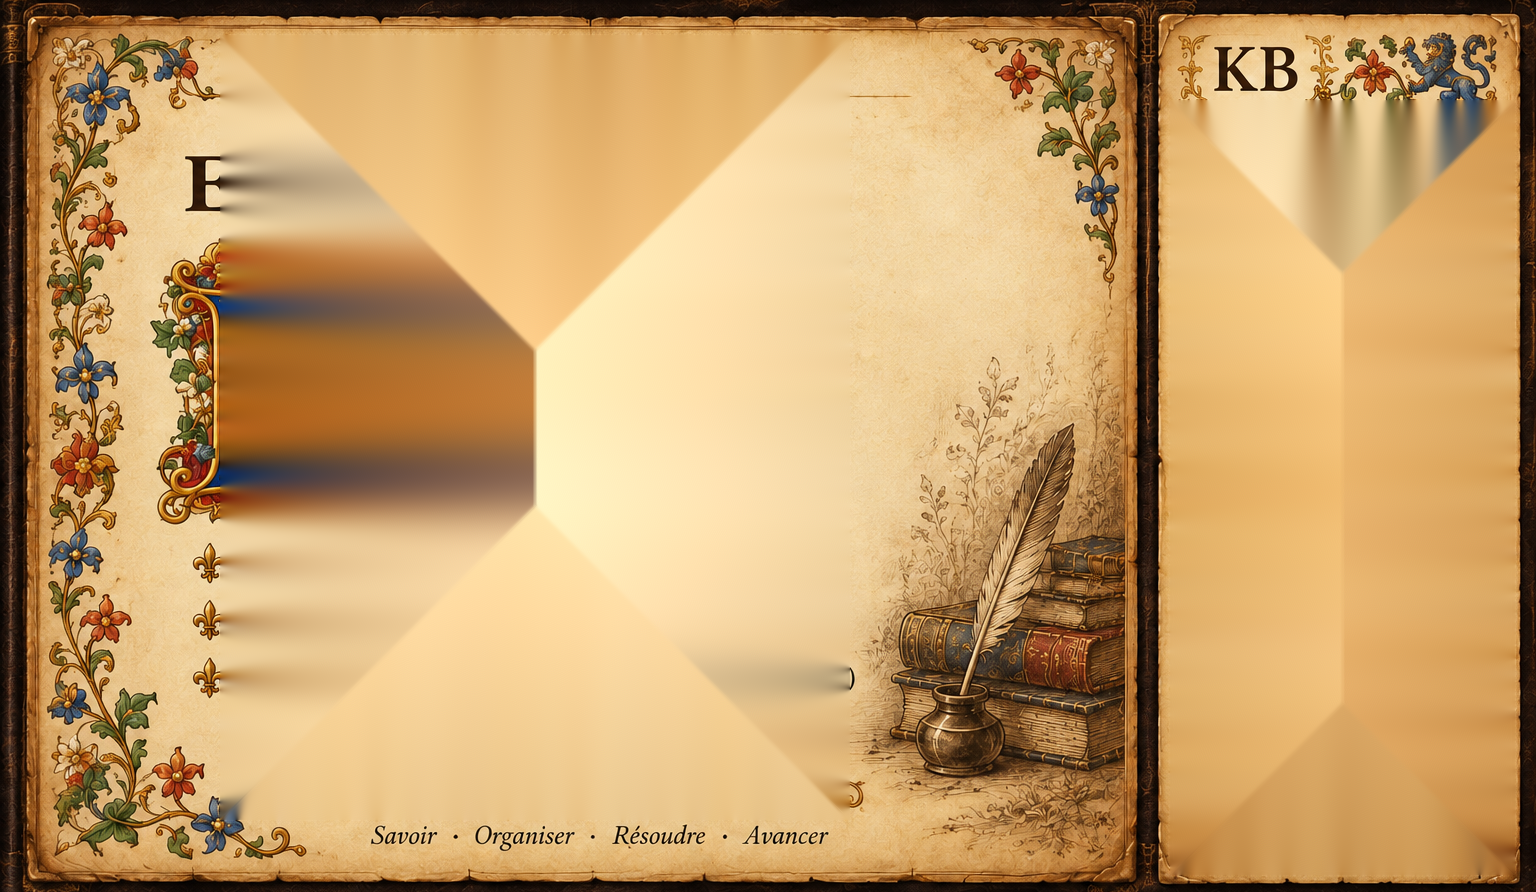
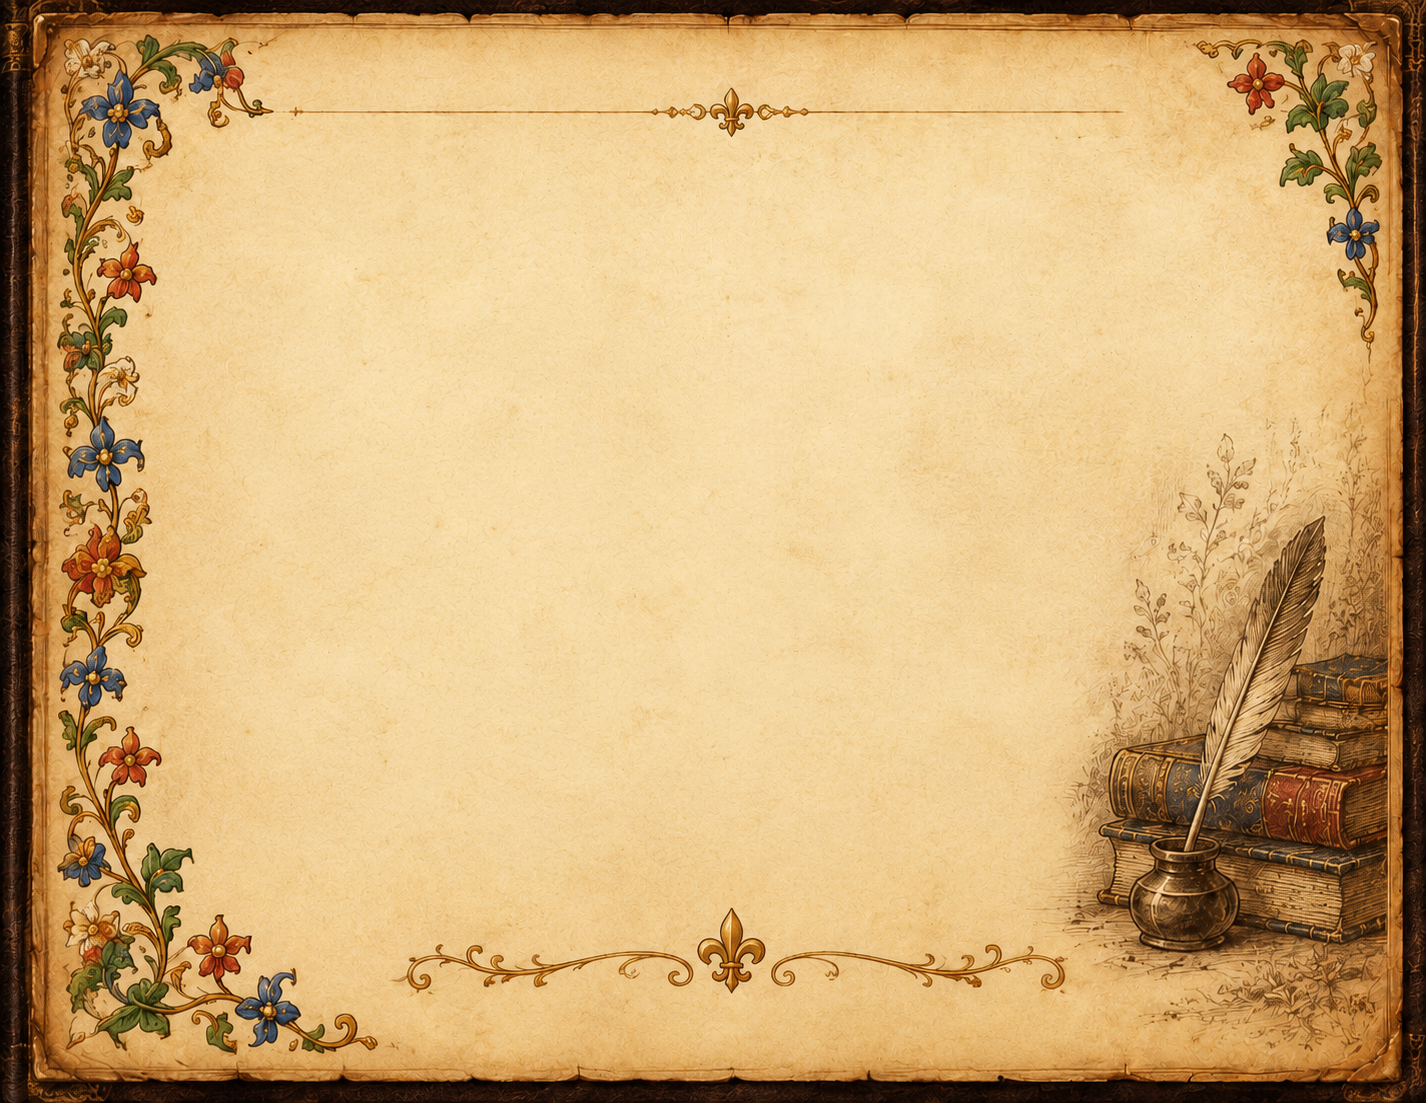
Adjusting 77

diff --git a/src/pages/templatesPage/TemplatesPage.scss b/src/pages/templatesPage/TemplatesPage.scss
@@ -190,3 +190,164 @@
   .kb-first-paragraph { grid-template-columns: 120px minmax(0, 1fr); min-height: 120px; }
   .kb-first-paragraph .kb-initial { width: 120px; height: 120px; }
 }
+
+/* KB manuscript page: the content is kept inside the blank central parchment area. */
+.kb-content {
+  padding: 112px 170px 150px 170px;
+  background: #f8edcf url('../../assets/kb-manuscript-clean.png') center / 100% 100% no-repeat;
+  border-radius: 0;
+  box-shadow: none;
+  overflow: auto;
+}
+.kb-content h1,
+.kb-breadcrumb,
+.kb-body,
+.kb-page-images { position: relative; z-index: 1; }
+.kb-content h1 { margin-bottom: 18px; }
+.kb-breadcrumb { color: #765638; }
+.kb-body { font-size: 20px; line-height: 1.42; }
+.kb-paragraph { margin-bottom: 14px; }
+.kb-page-images { margin-top: 24px; }
+@media(max-width:1000px){ .kb-content { padding: 82px 110px 110px; } }
+@media(max-width:700px){ .kb-content { padding: 56px 42px 80px; background-size: cover; } }
+
+
+/* The red reference rectangle is not rendered. It defines this strict content viewport. */
+.kb-content {
+  position: relative;
+  padding: 0;
+  overflow: hidden;
+  background: #f8edcf url('../../assets/kb-manuscript-clean.png') center / 100% 100% no-repeat;
+  border-radius: 0;
+  box-shadow: none;
+}
+.kb-manuscript-viewport {
+  position: absolute;
+  top: 13.15%;
+  right: 23.15%;
+  bottom: 20.15%;
+  left: 14.05%;
+  min-width: 0;
+  min-height: 0;
+  overflow: auto;
+  scrollbar-width: none;
+  -ms-overflow-style: none;
+  padding: 0;
+  box-sizing: border-box;
+}
+.kb-manuscript-viewport::-webkit-scrollbar { display: none; }
+.kb-page::-webkit-scrollbar { display: none; }
+.kb-page { scrollbar-width: none; -ms-overflow-style: none; }
+.kb-manuscript-viewport > * { max-width: 100%; box-sizing: border-box; }
+.kb-manuscript-viewport .kb-content h1,
+.kb-manuscript-viewport .kb-breadcrumb,
+.kb-manuscript-viewport .kb-body,
+.kb-manuscript-viewport .kb-page-images { position: relative; z-index: 1; }
+.kb-manuscript-viewport .kb-content h1 { margin-top: 0; }
+.kb-manuscript-viewport .kb-page-images img { max-width: 100%; height: auto; }
+@media(max-width:700px){
+  .kb-manuscript-viewport { top: 12%; right: 13%; bottom: 16%; left: 13%; }
+}
+
+/* Final KB background correction: keep the manuscript image on the outer canvas,
+   preserve its proportions, and let both panels occupy the full available height. */
+.kb-page {
+  height: calc(100vh - 58px);
+  min-height: 0;
+  background: #24160e url('../../assets/kb-manuscript-clean.png') center center / cover no-repeat;
+  align-items: stretch;
+}
+
+.kb-content {
+  height: 100%;
+  min-height: 0;
+  overflow: hidden;
+  background: #f8edcf;
+  padding: 0;
+}
+
+.kb-manuscript-viewport {
+  position: relative;
+  inset: auto;
+  height: 100%;
+  min-height: 0;
+  overflow: auto;
+  box-sizing: border-box;
+  padding: 38px 74px 90px 82px;
+}
+
+.kb-sidebar {
+  height: 100%;
+  min-height: 0;
+  overflow: auto;
+  box-sizing: border-box;
+  background: #efcc89;
+}
+
+@media (max-width: 1000px) {
+  .kb-manuscript-viewport { padding: 30px 34px 80px; }
+}
+
+@media (max-width: 700px) {
+  .kb-page { height: auto; min-height: calc(100vh - 58px); }
+  .kb-content { height: auto; }
+  .kb-manuscript-viewport { height: auto; padding: 24px; }
+  .kb-sidebar { height: auto; }
+}
+
+/* Corrected KB composition: no manuscript image on the outer canvas.
+   The manuscript artwork belongs to the reading page and sidebar, each
+   stretched to its own full available height. */
+.kb-page {
+  background: #24160e !important;
+  height: calc(100vh - 58px);
+  min-height: 0;
+  align-items: stretch;
+}
+
+.kb-content {
+  position: relative;
+  height: 100%;
+  min-height: 0;
+  padding: 0 !important;
+  overflow: hidden;
+  background: #f8edcf url('../../assets/kb-manuscript-clean.png') center / 100% 100% no-repeat !important;
+  border-radius: 0;
+  box-shadow: none;
+}
+
+.kb-manuscript-viewport {
+  position: absolute;
+  top: 13.15%;
+  right: 23.15%;
+  bottom: 20.15%;
+  left: 14.05%;
+  height: auto;
+  min-height: 0;
+  overflow: auto;
+  padding: 0;
+  box-sizing: border-box;
+  background: transparent;
+}
+
+.kb-sidebar {
+  height: 100%;
+  min-height: 0;
+  overflow: auto;
+  box-sizing: border-box;
+  background: #efcc89 url('../../assets/kb-manuscript-clean.png') center / 100% 100% no-repeat !important;
+  border-radius: 0;
+  box-shadow: none;
+  padding: 28px 20px 34px;
+}
+
+@media (max-width: 1000px) {
+  .kb-manuscript-viewport { top: 12%; right: 13%; bottom: 16%; left: 13%; }
+}
+
+@media (max-width: 700px) {
+  .kb-page { height: auto; min-height: calc(100vh - 58px); background: #24160e !important; }
+  .kb-content { height: auto; min-height: 500px; }
+  .kb-manuscript-viewport { position: relative; inset: auto; height: auto; min-height: 500px; padding: 24px !important; }
+  .kb-sidebar { height: auto; }
+}

diff --git a/src/pages/templatesPage/TemplatesPage.tsx b/src/pages/templatesPage/TemplatesPage.tsx
@@ -7,6 +7,7 @@ const initials = import.meta.glob("../../assets/illuminated-initials/*.png", { e
 const kbArtwork = import.meta.glob("../../assets/**/*.{png,jpg,jpeg,webp}", { eager: true, query: "?url", import: "default" }) as Record<string, string>;
 const initialFor = (text: string) => initials[Object.keys(initials).find((key) => key.endsWith(`/${(text.trim()[0] || "A").toUpperCase()}.png`)) || ""];
 const defaultArtwork = Object.entries(kbArtwork).find(([key]) => /pcd[-_ ]?kb/i.test(key) && !/manuscript/i.test(key))?.[1];
+const replaceBullets = (text: string) => text.replace(/^[•·▪●○◦]\s*/gm, "⚜ ");
 const stripMetadata = (text: string) => text
   .replace(/^\s*[^\n]+\n\s*(?:(?:Monday|Tuesday|Wednesday|Thursday|Friday|Saturday|Sunday),[^\n]+|(?:lundi|mardi|mercredi|jeudi|vendredi|samedi|dimanche)[^\n]+)\n\s*/i, "")
   .replace(/\n\s*(?:Monday|Tuesday|Wednesday|Thursday|Friday|Saturday|Sunday),[^\n]+$/i, "")
@@ -38,11 +39,12 @@ export default function TemplatesPage() {
 
   return <div className="kb-page">
     <main className="kb-content">
+      <div className="kb-manuscript-viewport">
       {error ? <div className="kb-error">Impossible de charger la KB : {error}</div> : current ? <>
         <div className="kb-breadcrumb">KB / {current.section || "Autres"} / {current.title} / page {current.page}</div>
         <h1>{current.title}</h1>
         <div className="kb-body">
-          {stripMetadata(current.content).split(/\n{2,}/).filter(Boolean).map((part, index) => {
+          {replaceBullets(stripMetadata(current.content)).split(/\n{2,}/).filter(Boolean).map((part, index) => {
             const initial = index === 0 ? initialFor(part) : undefined;
             return <div key={index} className={index === 0 ? "kb-paragraph kb-first-paragraph" : "kb-paragraph"}>
               {initial ? <><img className="kb-initial" src={initial} alt="" aria-hidden="true" /><span className="kb-first-text">{part.slice(1)}</span></> : part}
@@ -51,6 +53,7 @@ export default function TemplatesPage() {
         </div>
         {!!current.images?.length && <div className="kb-page-images">{current.images.map((image, index) => <figure className="kb-page-image" key={image}><img src={`${base}${image}`} alt={`Illustration ${index + 1} de la page ${current.page}`} /><figcaption>Illustration {index + 1} — page {current.page}</figcaption></figure>)}</div>}
       </> : pages.length === 0 ? <div className="kb-empty">Chargement du contenu KB…</div> : <div className="kb-welcome">{defaultArtwork && <img src={defaultArtwork} alt="PCD-KB" />}<h1>PCD – Knowledge Base</h1><p>Choisissez une section et une page dans le manuscrit à droite.</p></div>}
+      </div>
     </main>
     <aside className="kb-sidebar">
       <div className="kb-brand">KB</div>
